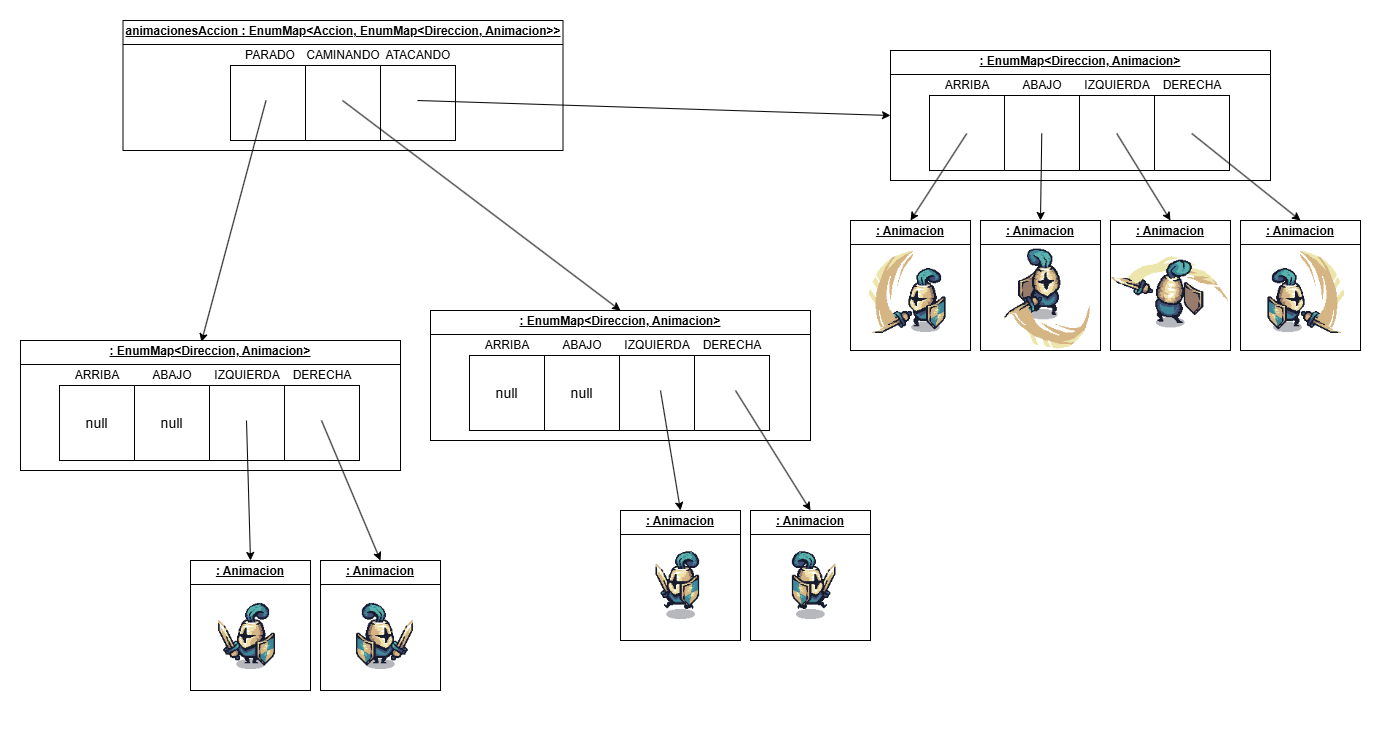
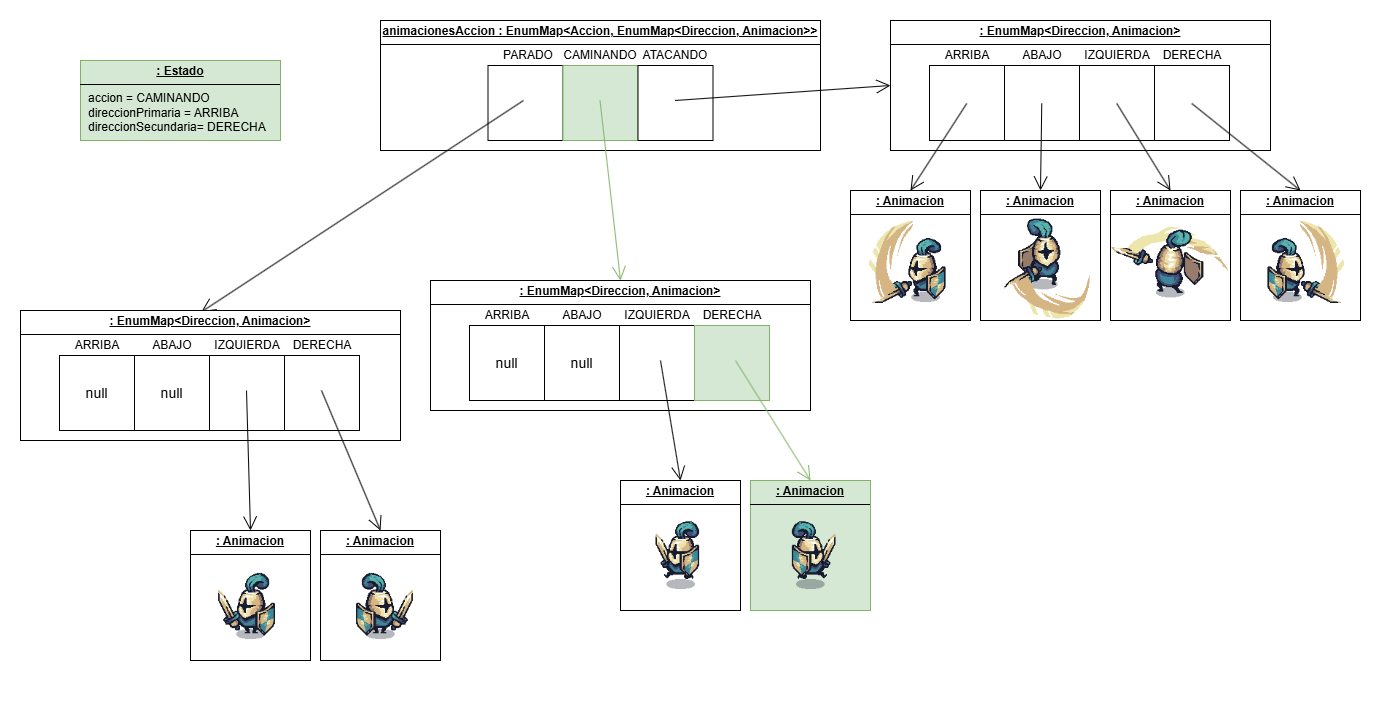
Documentados los personajes y sus animaciones en README.md

diff --git a/README.md b/README.md
@@ -2,6 +2,7 @@
 [sprite_duende_piromano]: resources/torch_goblin_red/idle1.png
 [choza_duendes]: resources/goblin_hut/standing1.png
 [jerarquia_entidad]: resources/readme/jerarquia_entidad.png
+[animaciones]: resources/readme/animaciones.png "Animaciones"
 
 # Juego de combate medieval
 
@@ -13,15 +14,52 @@ El jugador controla un caballero que debe defenderse de los duendes que salen pe
 
 ![jerarquia_entidad][]
 
+### Controlador de vida
 
-## `Caballero`
+Cada `EntidadFaccion` tiene un `ControladorVida` que debe ser inicializado mediante el método protegido `EntidadFaccion.setControladorVida()`. De este modo, cada subclase puede definir un `ControladorVida` con parámetros que no están disponibles en el constructor.
+
+Por ejemplo, `Personaje` necesita pasar su `PielPersonaje` al constructor de `ControladorVida`, pero el atributo `piel` pertenece a la instancia y no es posible usarlo antes de llamar a `super()`, por lo que no se puede inyectar el `ControladorVida` directamente en el constructor de `EntidadFaccion`.
+
+Por otra parte, la clase abstracta `Edificio` implementa `IVidaControlada`. Si `ControladorVida` fuera un parámetro del constructor, `ChozaDuende` necesitaría construirlo usando una referencia a `this`, lo cual no es posible antes de inicializar `super`.
+
+En nuestra jerarquía, `ChozaDuende` y `Personaje` inicializan el `ControladorVida`, mientras que `Caballero` y `DuendePiromano` se aprovechan de la inicialización realizada por `Personaje`. Opcionalmente, se puede pasar un `IVisualizadorNumerico` al constructor de `Personaje` para que se visualize una barra de vida, que es lo que hace `Caballero` indirectamente.
+
+### `Personaje`
+
+Esta clase se encarga del comportamiento común de todos los personajes: animaciones y ataques.
+
+Con el método `ciclo()`, se comprueba hacia dónde se mueve el personaje e intenta cambiar el `Estado`, que está compuesto por una `Accion` y dos valores `Direccion`, `direccionPrimaria` y `direccionSecundaria`. De este modo, si un personaje se mueve en una trayectoria hacia arriba pero ligeramente inclinada a la derecha, su `Estado` tendrá `CAMINANDO` como acción, `ARRIBA` como dirección primaria y `DERECHA` como dirección secundaria. En caso de que el movimiento esté perfectamente alineado a una dirección, ambos atributos de dirección tendrán ese mismo valor. Si ha podido cambiar el `Estado`, se notifica a `PielPersonaje` para que muestre la animación correspondiente.
+
+`PielPersonaje` utiliza dos niveles de `EnumMap` para mapear cada `Estado` a una animación usando los enumerados `Accion` y `Direccion`. Como solo las animaciones de ataque tienen variantes hacia arriba y abajo, se procede de la siguiente manera:
+
+- Con la acción `ATACANDO`, el `EnumMap<Direccion, Animacion>` se accede con la dirección primaria.
+
+- Con otras acciones:
+    - Si la dirección primaria es horizontal, se accede con ella al segundo nivel de `EnumMap`.
+    - Si la dirección primaria es vertical y la secundaria horizontal, se accede con la dirección secundaria.
+    - Si ninguna dirección es horizontal (movimiento perfectamente vertical), se accede usando la constante `DERECHA`.
+
+
+![animaciones]
+
+Si el personaje decide llamar al método `ataca()` desde el `Estado` descrito, la `Acción` pasará a ser `ATACANDO` y se bloqueará tanto el cambio de animaciones como los nuevos ataques hasta que finalice el `temporizadorAtaque`. La animación resultante será el ataque hacia arriba porque ahora sí podemos usar la dirección primaria. 
+
+### `AtacanteMele`
+
+Para simular un ataque con un arma cuerpo a cuerpo, se genera un `AreaDanho` en la dirección en la que mira el personaje. Este `AreaDanho` aplicará un daño a todos los objetivos de facciones enemigas que estén presentes en ella en el momento preciso para simular el golpe y después se autodestruirá.
+
+Con `super.ataca()` en su método `ataca()`, la clase intenta cambiar el estado a `ATACANDO` y, si ha podido, efectúa el ataque.
+
+### `Caballero`
 
 ![sprite_caballero][]
 
-## `DuendePiromano`
+### `DuendePiromano`
 
 ![sprite_duende_piromano][]
 
-## `ChozaDuende`
+### `Edificio`
+
+### `ChozaDuende`
 
 ![choza_duendes][]
